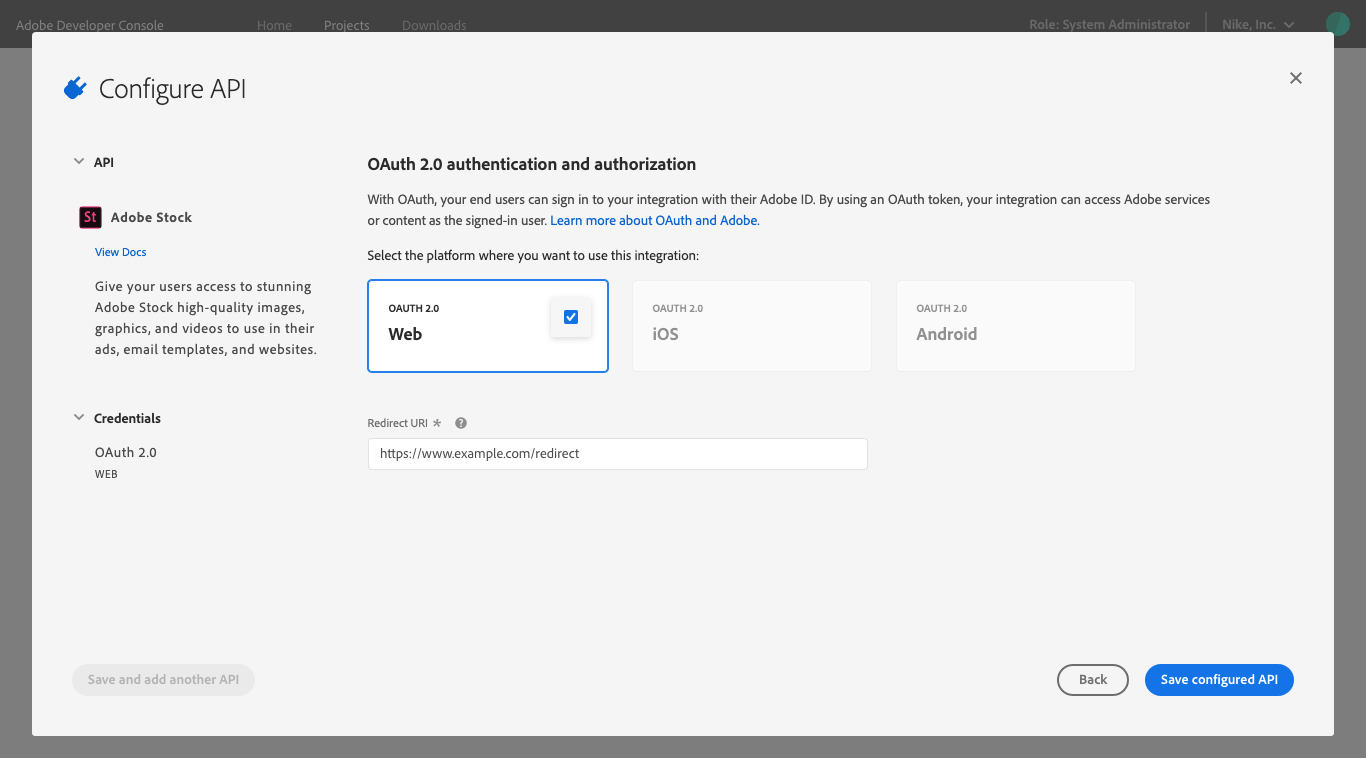
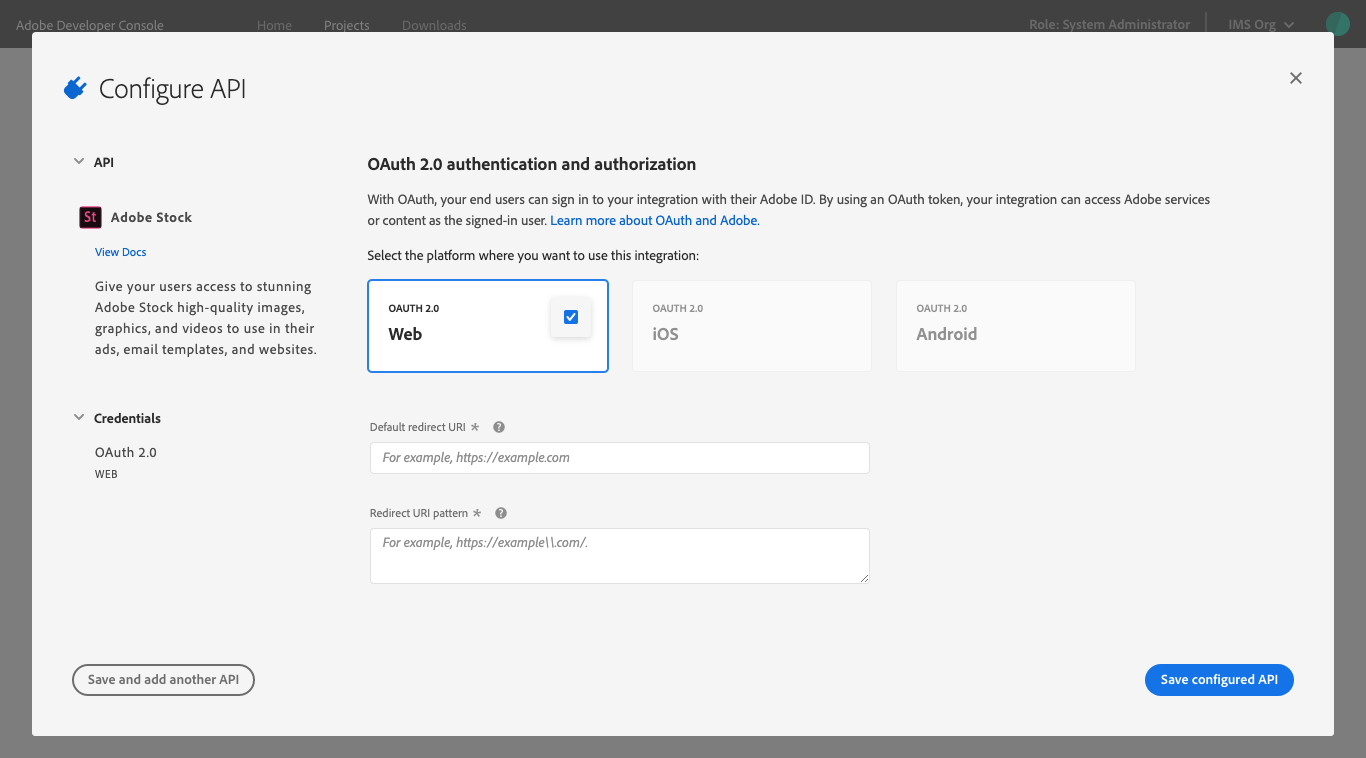
Update OAuth Web URI redirect and add pattern

diff --git a/services-add-api-oauth.md b/services-add-api-oauth.md
@@ -28,13 +28,19 @@ User authentication using OAuth allows your end users to sign in to your integra
 
 To configure an API using OAuth 2.0 authentication and authorization, you must first select the platforms where you want to use this integration: Web, iOS, or Android. 
 
+> **Note:** If more than one platform is available for the chosen API, you can select all necessary platforms and configure them all at the same time.
+
 ![](images/services-api-oauth-configure.png)
 
 Depending on the platform(s) you select, you may be required to provide additional configuration information:
 
-* **Web:** You are required to provide a *Redirect URI*, which is a fallback URI to be used if the authorization request contains a redirect URI which doesn't match the Redirect URI list or doesn't contain a `redirect_uri` parameter.
+* **Web:** You are required to provide a *Default redirect URI*, which is the URL of the page or script (usually at the root of your web app) that Adobe will access during the authentication process. It can contain a maximum of 256 characters and cannot be a regular expression.
 
-  > **Note:** The *Redirect URI* must use HTTPS (for example, `https://redirect.com/uri/etc`) and cannot be a regular expression.
+  > **Note:** The *Default redirect URI* must be hosted on a secure server (HTTPS), even if it is only a localhost instance. For example, `https://redirect.com/uri/etc`. 
+
+  For the Web platform, you must also provide a *Redirect URI pattern*. This is a URI path (or comma-separated list of paths) to which Adobe will attempt to redirect when the login flow is complete. It must be within your application domain, and is typically the root. It can contain a maximum of 512 characters.
+  
+  > **Note:** You must escape periods (`.`) with `\\`. For example, `https://example\\.com/`.
 
 * **iOS:** You are required to provide a *URL Scheme*. This is a custom iOS URL scheme that allows external apps and websites to link to your app.
 
